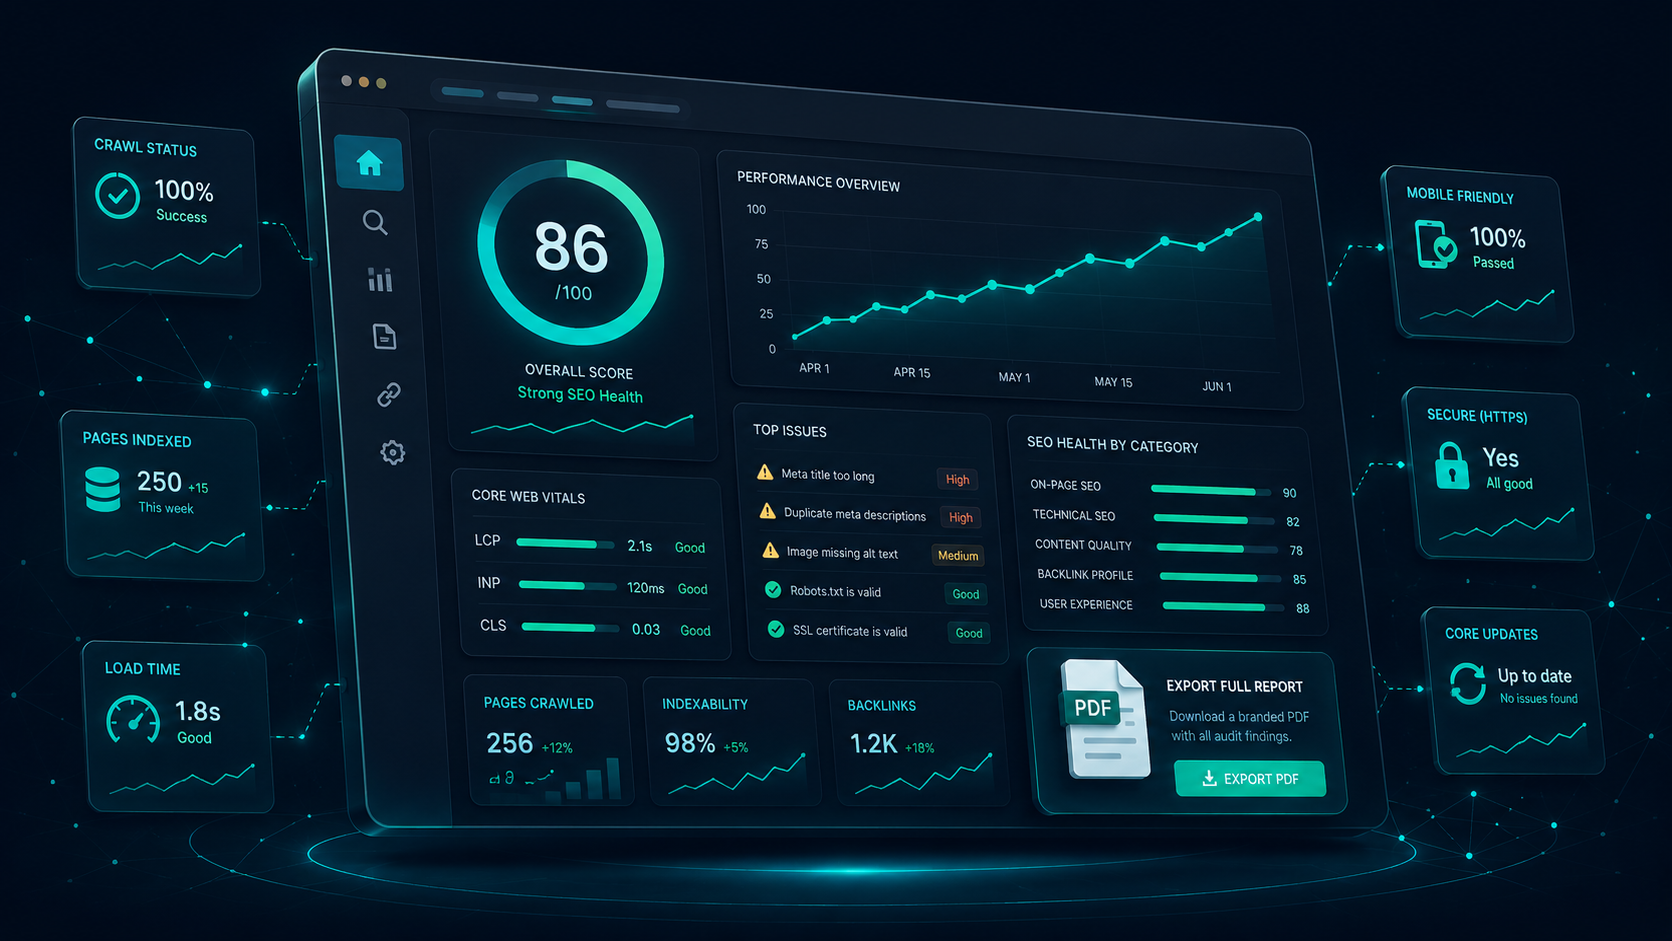
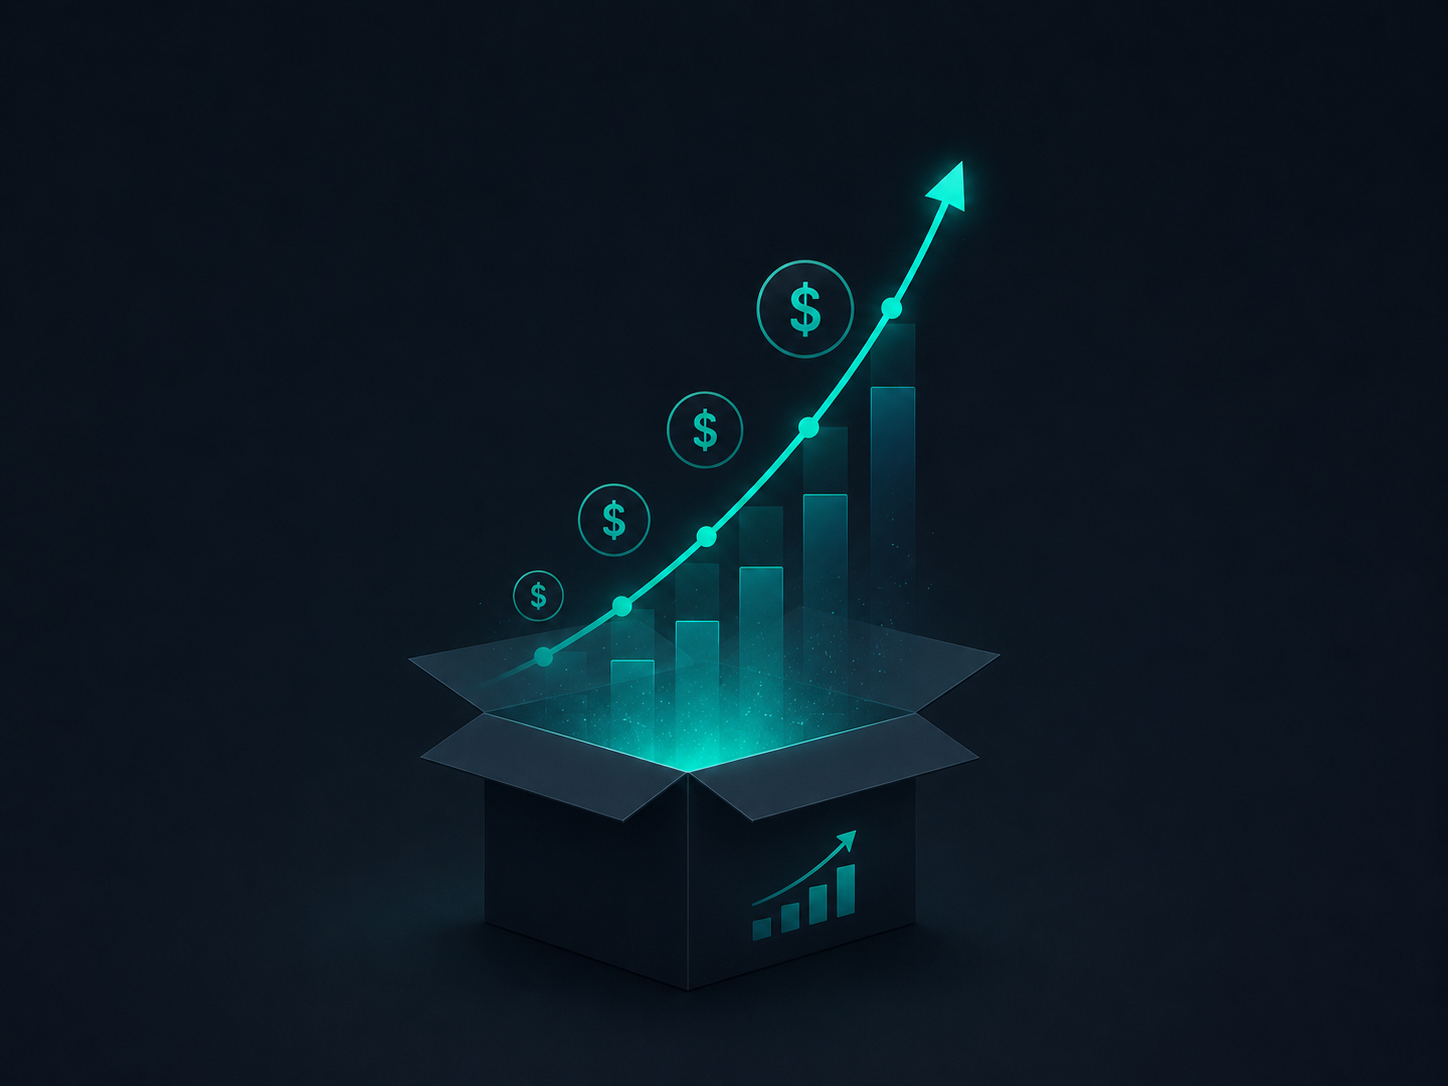
updated live demo

diff --git a/app/audit-widget/live-demo/page.tsx b/app/audit-widget/live-demo/page.tsx
@@ -3,6 +3,9 @@ import { useEffect, useRef, useState } from 'react'
 import Logo from '@/components/logo'
 import Footer2 from '@/components/sections/footer2'
 import Link from 'next/link'
+import Script from 'next/script'
+
+
 const API     = process.env.NEXT_PUBLIC_API_URL ?? 'http://localhost:8000'
 const PRIMARY = '#00A4C6'
 const ACCENT  = '#00A4C6'
@@ -297,6 +300,7 @@ function LiveWidget() {
   const pollRef = useRef<NodeJS.Timeout | undefined>(undefined)
 
   useEffect(() => () => { if (pollRef.current) clearTimeout(pollRef.current) }, [])
+    // const text = passed ? `Valid ${{check.title}}\` : \`Missing ${{check.title}}\`;
 
   const start = async () => {
     const raw = url.trim()
@@ -711,11 +715,13 @@ export default function DemoPage() {
             <Link href="/register"
                className="px-4 py-2 rounded text-sm font-bold text-white transition-all hover:opacity-90"
                style={{ background: `linear-gradient(135deg, ${PRIMARY}, ${ACCENT})` }}>
-              Get your embed code →
+              Get embed code →
             </Link>
           </div>
         </div>
       </nav>
+
+      
 
       {/* ══════════════════════════════════════════════════════════════════════
           SECTION 1 — HERO
@@ -752,6 +758,11 @@ export default function DemoPage() {
 
           {/* Main animated mockup */}
           <BrowserMockup />
+          {/* <Script 
+                src="http://localhost:8000/api/embed/widget.js?api_key=af_embed_adbcba82164245ed879ad52982363119">
+          </Script>
+          <div id="auditflow-widget"></div> */}
+
 
           {/* Hero copy — BELOW the mockup intentionally */}
           <div className="text-center mt-14 max-w-2xl mx-auto">
@@ -783,21 +794,39 @@ export default function DemoPage() {
                 Try it live ↓
               </a>
             </div>
+            
           </div>
+          
         </div>
       </section>
-
+    
+      
       {/* ══════════════════════════════════════════════════════════════════════
           SECTION 2 — LIVE WIDGET (functional)
           ══════════════════════════════════════════════════════════════════════ */}
       <section id="try-it" className="py-24 px-6 relative"
                style={{ background: 'linear-gradient(180deg, #0A0E1A 0%, #111827 100%)' }}>
         <div className="max-w-6xl mx-auto">
+          <div className="text-center mb-14">
+              <p className="text-xs font-bold uppercase tracking-widest mb-4" style={{ color: ACCENT }}>
+                Try it yourself
+              </p>
+              <h2 className="text-3xl sm:text-4xl font-black leading-tight mb-5">
+                This is exactly what your clients see.
+              </h2>
+              <p className="text-white/40 text-base leading-relaxed mb-8">
+                Enter your own website URL below. The same audit runs, the same results
+                appear, the same email gets captured — except in your version, the lead
+                goes straight to your dashboard.
+              </p>
+            </div>  
+          <Script 
+                src="http://localhost:8000/api/embed/widget.js?api_key=af_embed_adbcba82164245ed879ad52982363119">
+          </Script>
+          <div id="auditflow-widget"></div> 
 
-          <div className="grid lg:grid-cols-2 gap-16 items-center">
-            {/* <div className="space-y-16 items-center"> */}
-
-            {/* Left: copy */}
+          {/* <div className="grid lg:grid-cols-2 gap-16 items-center">
+            {/* Left: copy  
             <div>
               <p className="text-xs font-bold uppercase tracking-widest mb-4" style={{ color: ACCENT }}>
                 Try it yourself
@@ -811,7 +840,7 @@ export default function DemoPage() {
                 goes straight to your dashboard.
               </p>
 
-              {/* <div className="space-y-4">
+              <div className="space-y-4">
                 {[
                   { icon: '⚡', title: 'Light speed audit',    sub: 'Performance, SEO, accessibility, best practices' },
                   { icon: '🗺', title: '50-page deep crawl',  sub: 'Missing H1s, broken links, thin content, duplicate titles' },
@@ -828,16 +857,21 @@ export default function DemoPage() {
                     </div>
                   </div>
                 ))}
-              </div> */}
-            </div>
+              </div> 
+            </div> 
 
-            {/* Right: live widget */}
+            {/* Right: live widget 
             <div>
-              <LiveWidget />
+              {/* <LiveWidget /> 
+               {/* <Script 
+                src="http://localhost:8000/api/embed/widget.js?api_key=af_embed_adbcba82164245ed879ad52982363119">
+            </Script>
+            <div id="auditflow-widget"></div>  
             </div>
-          </div>
+          </div> */}
+
         </div>
-      </section>
+      </section> 
 
       {/* ══════════════════════════════════════════════════════════════════════
           SECTION 3 — WHAT CLIENTS SEE (annotated result preview)

diff --git a/app/audit/embed/page.tsx b/app/audit/embed/page.tsx
@@ -995,7 +995,7 @@ function darkenHex(hex: string, percent: number = 20): string {
                           </td>
                           <td className="px-6 py-4 text-sm text-gray-500">
                             <div className="flex items-center gap-2">
-                              <button
+                              {/* <button
                                 onClick={() => {
                                   setSelectedLead(lead)
                                   setEmailSubject('SEO Audit Report Follow-up')
@@ -1006,7 +1006,14 @@ function darkenHex(hex: string, percent: number = 20): string {
                                 title="Send email"
                               >
                                 <Mail className="w-4 h-4" />
-                              </button>
+                              </button> */}
+                              <a
+                                href= {`mailto:${lead.email}`}
+                                className="w-8 h-8 rounded border border-gray-200 bg-white text-gray-500 hover:text-[#00a4c6] hover:border-[#00a4c6] transition-colors flex items-center justify-center cursor-pointer"
+                                title="Send email"
+                              >
+                                <Mail className="w-4 h-4" />
+                              </a>
                               <button
                                 onClick={() => {
                                   setSelectedLead(lead)
@@ -1148,7 +1155,7 @@ function darkenHex(hex: string, percent: number = 20): string {
                           View Report
                         </Button>
                       </Link>
-                      <Button
+                      {/* <Button
                         size="sm"
                         onClick={() => {
                           setEmailSubject('SEO Audit Report Follow-up')
@@ -1158,7 +1165,14 @@ function darkenHex(hex: string, percent: number = 20): string {
                       >
                         <Mail className="w-4 h-4 mr-2" />
                         Email Lead
-                      </Button>
+                      </Button> */}
+                      <a
+                      className='rounded px-3 py-1.5 text-sm border border-gray-200 bg-main text-gray-500 hover:text-[#00a4c6] hover:border-[#00a4c6] transition-colors flex items-center justify-center cursor-pointer'
+                        href = {`mailto:${selectedLead.email}?subject=${encodeURIComponent(emailSubject)}&body=${encodeURIComponent(emailBody)}`}
+                      >
+                        <Mail className="w-4 h-4 mr-2" />
+                        Email Lead
+                      </a>
                     </div>
                   </div>
                 </div>

diff --git a/app/blog/[slug]/page.tsx b/app/blog/[slug]/page.tsx
@@ -3,7 +3,7 @@ import BlogArticleComponent from "./articleComponent";
 import { getAllPosts, getPostBySlug, getRelatedArticles } from '@/lib/posts'
 import Link from 'next/link';
 import BaseHeader from '@/components/base-header'
-import Footer from '@/components/footer'
+import Footer2 from '@/components/sections/footer2'
 import Logo from '@/components/logo'
 export const generateStaticParams = async () => {
     const posts = await getAllPosts('blog-posts')
@@ -55,7 +55,7 @@ export default async function BlogArticle({params} : {params: {slug: string}} ) 
             Back to Blog
           </Link>
         </div>
-        <Footer />
+        <Footer2 />
       </div>
     );
   }
@@ -64,7 +64,7 @@ export default async function BlogArticle({params} : {params: {slug: string}} ) 
         <>
         <BaseHeader />
         <BlogArticleComponent article={post} related={related} />
-        <Footer />
+        <Footer2 />
         </>
     )
 }

diff --git a/components/base-header.tsx b/components/base-header.tsx
@@ -99,7 +99,7 @@ export default function BaseHeader({user}:any) {
           borderBottom: scrolled ? '1px solid #374c63' : '1px solid transparent',
         }}
       >
-        <div className="container flex items-center justify-between mx-auto h-full">
+        <div className="container flex items-center justify-around mx-auto h-full">
           {/* Logo */}
           {/* <Link href="/" className="flex items-center gap-0 text-white text-xl">
             <Logo /> */}

diff --git a/app/layout.tsx b/app/layout.tsx
@@ -66,6 +66,7 @@ export default function RootLayout({ children }: { children: React.ReactNode }) 
             `,
           }}
         />
+        
       </head>
       <body className={dmSans.className}>
         <AuthProvider>

diff --git a/components/sections/footer2.tsx b/components/sections/footer2.tsx
@@ -6,6 +6,10 @@ const links = [
     href: '/blog',
   },
   {
+    name: 'Pricing',
+    href: '/pricing',
+  },
+  {
     name: 'Signin',
     href: '/signin',
   },
